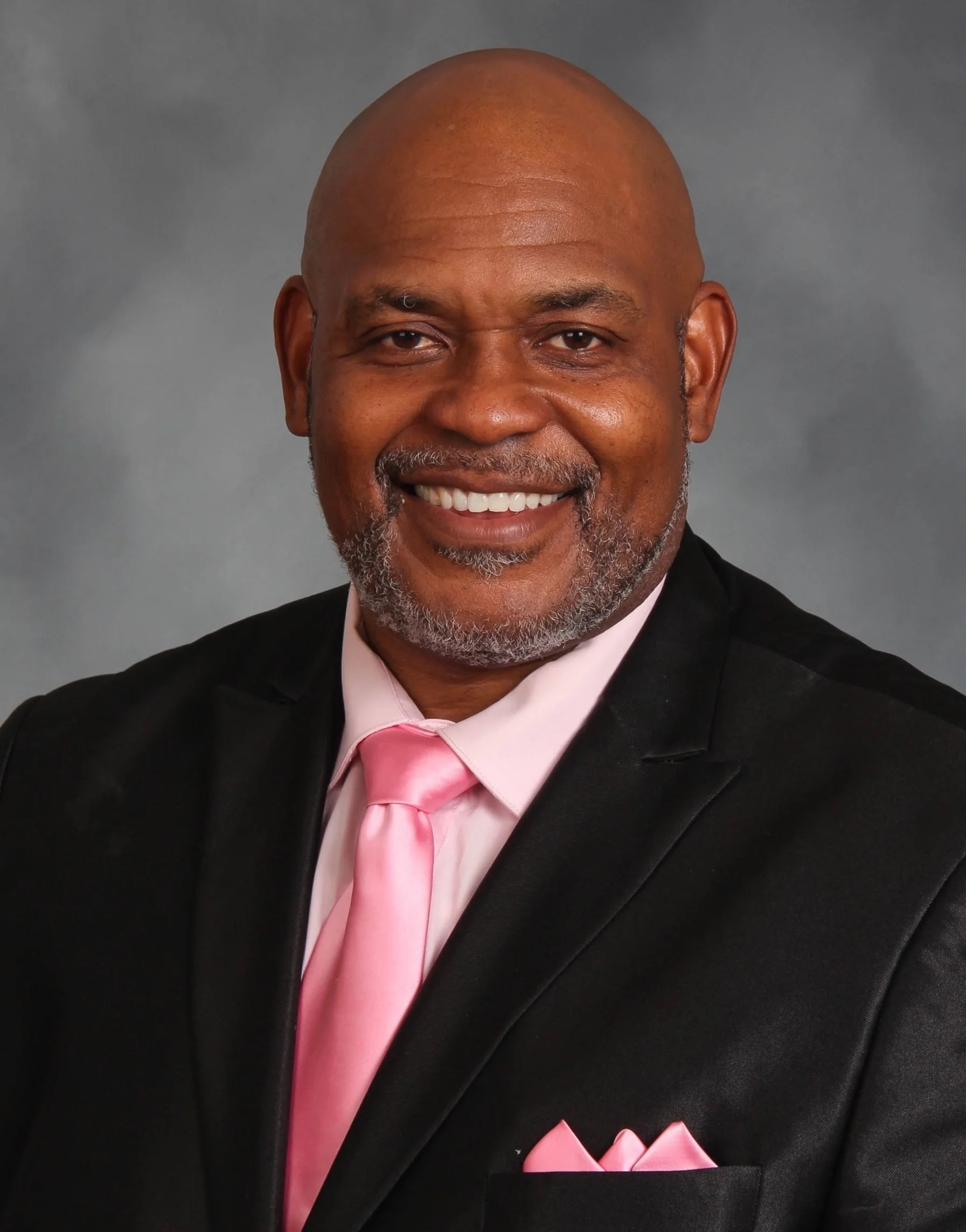
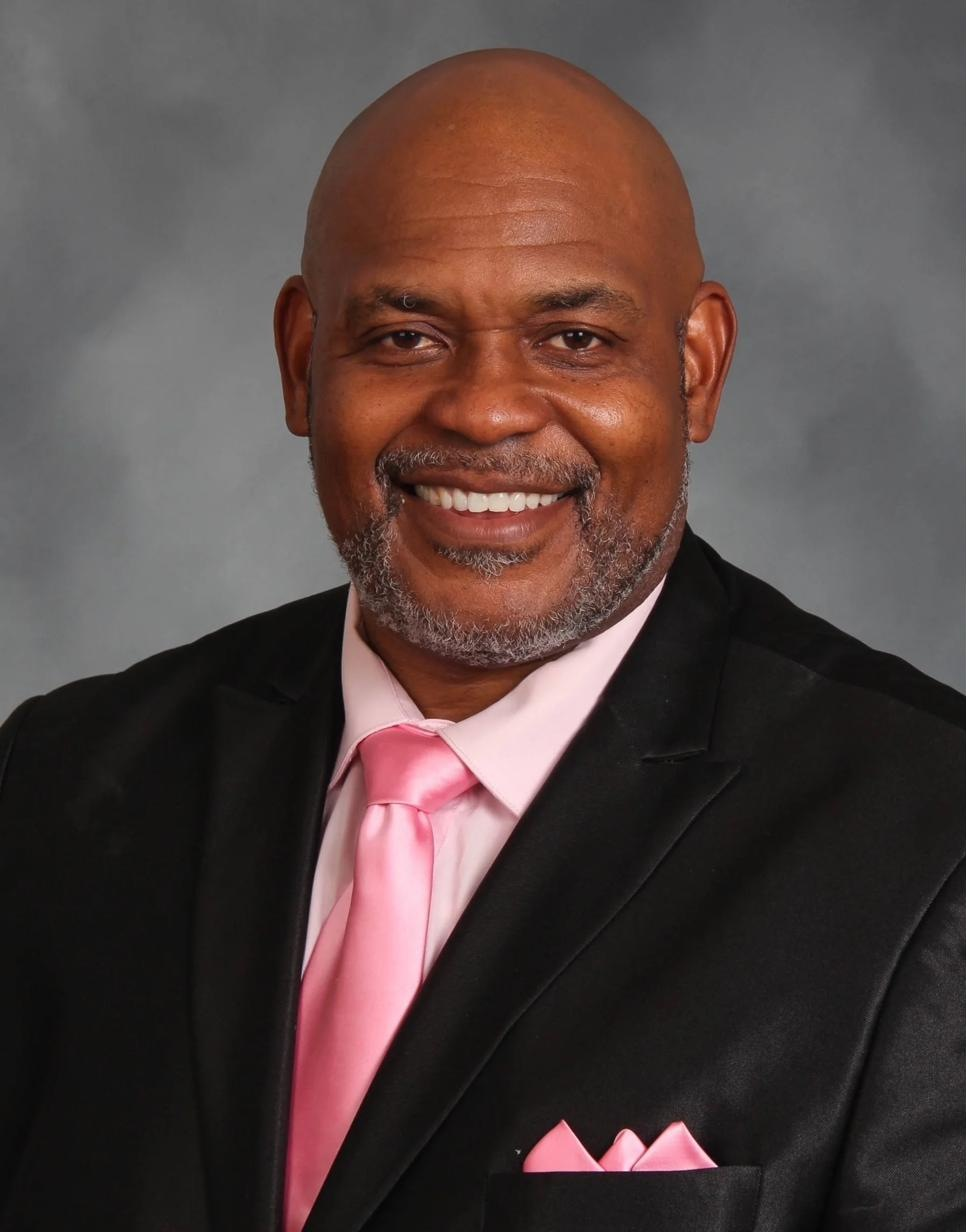
Name the owner, redesign his profile, strip baked-in white edges, clear lint
Owner profile — the director is Emanuel Jones, owner of the funeral home, so the
strip now carries that weight instead of reading as a photo parked beside a
paragraph. Asymmetric 5/7 grid, portrait held inside an offset pink rule, an
ambient pink radial wash over the ink ground, a titled divider with the house
ornament, and two actions out to contact and services. Title is now
"Owner & Funeral Director".

Copy still asserts no fact that was not supplied — no licence, years, schooling
or affiliations — and deliberately carries no pull-quote, since inventing a
first-person statement for a named real person is not something to guess at. The
TODO above the `owner` object lists what to confirm, including whether he founded
the chapel or acquired it.

Images — staff_funeral_director_headshot_01.jpg carried a 14px column of pure
white baked into its right edge, which rendered as the white line down the side
of the portrait; headshot_02 had an 11px one. Both cropped at the point the
luminance drops below 240 so the anti-aliased shoulder goes too. The other six
staff photographs were already clean.

Lint — removed three unused imports that predated this work: Link in About
(the redesign uses Button, which wraps react-router's Link itself), Phone in
PricingPackages, ServiceCard in Services. `npm run lint` is now clean.

All nine routes pass a programmatic contrast audit. Build and typecheck pass.

diff --git a/src/pages/About.tsx b/src/pages/About.tsx
@@ -1,5 +1,5 @@
-import { Link } from 'react-router-dom';
 import PageHero from '../components/sections/PageHero';
+import { Button } from '../components/ui/Button';
 import CTASection from '../components/sections/CTASection';
 
 // Staff data — titles only; names not invented. Client to provide verified titles for production.
@@ -12,15 +12,16 @@ const staffMembers = [
 ];
 
 /**
- * Featured funeral director.
- * TODO (client): confirm the full name, preferred title, and any credentials Mr. Jones
- * wants stated (licence, years in service, affiliations). The copy below is written to
- * the brief — dedication to the profession and to Chicagoland families — and deliberately
- * asserts no verifiable facts that have not been supplied.
+ * Owner profile.
+ * TODO (client): confirm any credentials Emanuel Jones wants stated — licence, years in
+ * service, professional affiliations, and whether he founded the chapel or acquired it.
+ * The copy below is written to the brief (dedication to the profession and to Chicagoland
+ * families) and deliberately asserts no fact that has not been supplied. If he would like a
+ * signed pull-quote here, send his words — I will not put sentences in his mouth.
  */
-const director = {
-  name: 'Mr. Jones',
-  title: 'Funeral Director',
+const owner = {
+  name: 'Emanuel Jones',
+  title: 'Owner & Funeral Director',
   image: '/staff_funeral_director_headshot_01.jpg',
 };
 
@@ -104,49 +105,83 @@ export default function About() {
         </div>
       </section>
 
-      {/* Featured Funeral Director — ink surface so the profile reads as a feature,
-          not another band, between Mission & Values (blush) and Our Team (white). */}
-      <section className="bg-ink py-20 px-6" aria-labelledby="director-heading">
-        <div className="max-w-6xl mx-auto grid grid-cols-1 lg:grid-cols-[minmax(0,22rem)_minmax(0,1fr)] gap-10 lg:gap-16 items-center">
-          <div className="mx-auto w-full max-w-xs lg:max-w-none">
-            <img
-              src={director.image}
-              alt={`${director.name}, ${director.title} at Emanuel's Chapel`}
-              className="w-full aspect-[4/5] object-cover object-top rounded-sm shadow-lg"
-              loading="lazy"
-              decoding="async"
-            />
+      {/* Owner profile — the anchor of the page: offset frame, ambient warmth, and an
+          asymmetric 5/7 split so it reads as a considered portrait rather than a photo
+          parked beside a paragraph. */}
+      <section className="relative bg-ink overflow-hidden py-20 lg:py-28 px-6" aria-labelledby="owner-heading">
+        <div
+          className="pointer-events-none absolute inset-0 opacity-[0.09]"
+          style={{ backgroundImage: 'radial-gradient(circle at 24% 45%, #FDA8BF 0%, transparent 62%)' }}
+          aria-hidden="true"
+        />
+
+        <div className="relative max-w-6xl mx-auto grid grid-cols-1 lg:grid-cols-12 gap-14 lg:gap-16 items-center">
+          {/* Portrait, held inside an offset pink rule */}
+          <div className="lg:col-span-5">
+            <div className="relative mx-auto w-full max-w-sm lg:max-w-none">
+              <div
+                className="absolute -inset-3 sm:-inset-4 border border-pink/45 rounded-sm"
+                aria-hidden="true"
+              />
+              <img
+                src={owner.image}
+                alt={`${owner.name}, ${owner.title} at Emanuel's Chapel`}
+                className="relative w-full aspect-[4/5] object-cover object-top rounded-sm shadow-[0_18px_50px_rgba(0,0,0,0.45)]"
+                loading="lazy"
+                decoding="async"
+              />
+            </div>
           </div>
 
-          <div>
-            <div className="flex items-center gap-3 mb-5">
+          {/* Profile */}
+          <div className="lg:col-span-7">
+            <div className="flex items-center gap-3 mb-6">
               <div className="h-px w-8 bg-pink" />
               <span className="text-pink text-xs tracking-[0.4em] font-body uppercase">
-                Meet Our Funeral Director
+                Meet the Owner
               </span>
             </div>
 
-            <h2 id="director-heading" className="font-display text-3xl md:text-4xl text-white leading-tight mb-2">
-              {director.name}
+            <h2
+              id="owner-heading"
+              className="font-display text-4xl md:text-5xl text-white leading-[1.1] mb-4"
+            >
+              {owner.name}
             </h2>
-            <p className="font-heading text-pink text-lg italic mb-6">{director.title}</p>
 
-            <p className="font-body text-white/75 leading-relaxed mb-5">
-              For Mr. Jones, funeral service is less a profession he chose than a calling he
-              answered. His work rests on a simple conviction: that every family who walks
-              through our doors deserves patience, honesty, and unhurried attention — whatever
-              the hour, whatever the circumstance.
-            </p>
-            <p className="font-body text-white/75 leading-relaxed mb-5">
-              That commitment shows in the details. He guides families personally through the
-              decisions that follow a loss, explains every option plainly, and never presses for
-              more than a family needs. For households across the Chicagoland area, he has been
-              the steady presence in the room on the hardest day of their lives.
-            </p>
-            <p className="font-body text-white/75 leading-relaxed">
-              His dedication extends past any single service — to the funeral profession itself,
-              and to the South Side community Emanuel's Chapel is proud to call home.
-            </p>
+            <div className="flex items-center gap-4 mb-8">
+              <span className="font-heading text-pink text-xl italic">{owner.title}</span>
+              <span className="h-px flex-1 bg-white/15" />
+              <span className="text-pink text-base leading-none" aria-hidden="true">&#10022;</span>
+            </div>
+
+            <div className="space-y-5 max-w-[62ch]">
+              <p className="font-body text-white/80 text-[15.5px] leading-[1.75]">
+                For Emanuel Jones, funeral service is less a profession he chose than a calling he
+                answered. He leads Emanuel&rsquo;s Chapel by a simple conviction: that every family
+                who walks through these doors deserves patience, honesty, and unhurried attention
+                &mdash; whatever the hour, whatever the circumstance.
+              </p>
+              <p className="font-body text-white/80 text-[15.5px] leading-[1.75]">
+                That commitment shows in the details. He guides families personally through the
+                decisions that follow a loss, explains every option plainly, and never presses for
+                more than a family needs. For households across the Chicagoland area, he has been
+                the steady presence in the room on the hardest day of their lives.
+              </p>
+              <p className="font-body text-white/80 text-[15.5px] leading-[1.75]">
+                His dedication extends past any single service &mdash; to the funeral profession
+                itself, and to the South Side community Emanuel&rsquo;s Chapel is proud to call home.
+              </p>
+            </div>
+
+            <div className="mt-10 flex flex-wrap items-center gap-4">
+              <Button variant="accent" to="/contact">
+                Speak with Emanuel&rsquo;s Chapel
+              </Button>
+              <Button variant="outline" tone="light" to="/services">
+                Our services
+              </Button>
+            </div>
           </div>
         </div>
       </section>

diff --git a/src/pages/PricingPackages.tsx b/src/pages/PricingPackages.tsx
@@ -1,4 +1,4 @@
-import { Info, Phone } from 'lucide-react';
+import { Info } from 'lucide-react';
 import PageHero from '../components/sections/PageHero';
 import PricingRequestForm from '../components/forms/PricingRequestForm';
 import CTASection from '../components/sections/CTASection';

diff --git a/src/pages/Services.tsx b/src/pages/Services.tsx
@@ -1,6 +1,5 @@
 import { Link } from 'react-router-dom';
 import PageHero from '../components/sections/PageHero';
-import ServiceCard from '../components/cards/ServiceCard';
 import CTASection from '../components/sections/CTASection';
 import { services } from '../data/services';
 
